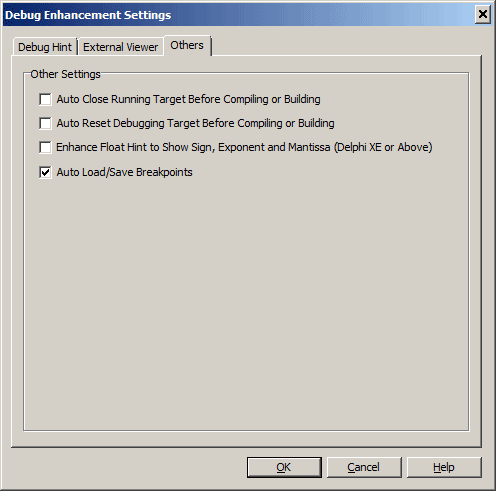
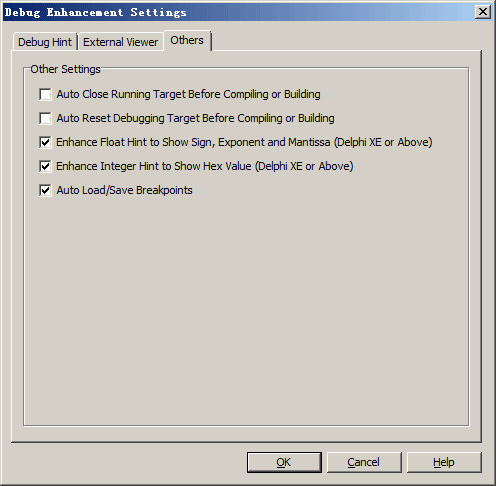
* [Help] Update Help and Snapshot for Debug Enhance.

Changed region(s): [[0.0, 0.0, 0.998, 0.4012], [0.0302, 0.8642, 0.9677, 0.9877]]

diff --git a/Help/CnWizards_ENU/other/history.htm b/Help/CnWizards_ENU/other/history.htm
@@ -26,10 +26,9 @@
 <p class="indentnarrow">! Problem(s) Found but NOT Fixed.</p>
 <p class="indentnarrow">^ Funciton(s) in Planning</p>
 <p class="indentnarrow">&nbsp;</p>
-<p class="title">2026.03.xx V1.7.2</p>
+<p class="title">2026.04.xx V1.7.2</p>
 <p class="indentnarrow">+ Supports RAD Studio 13.1.</p>
-<p class="indentnarrow">+ Add RAD Studio Menu Localization in Language Menu.</p>
-<p class="indentnarrow">+ Add Delphi 5 6 7 / C++Builder 5 6 / Delphi 2005 2006 2007 IDE Localization in Language Menu.</p>
+<p class="indentnarrow">+ Add Delphi / C++Builder / RAD Studio IDE Chinese Localization in Language Menu.</p>
 <p class="indentnarrow">+ AI Coder Supports XiaoMi MiMo.</p>
 <p class="indentnarrow">+ Add Align Comment Block Menu in Comment Tidy.</p>
 <p class="indentnarrow">+ Add Save Lock State Menu in Form Design Wizard.</p>

diff --git a/Help/CnWizards_ENU/ideenhance/debugenh.htm b/Help/CnWizards_ENU/ideenhance/debugenh.htm
@@ -86,6 +86,9 @@
     <p class="text"><b>Enhance Float Hint to Show Sign, Exponent and Mantissa</b>: This option allows the debugging period to add Sign, Exponent and Mantissa Display into a Float Value Debug Hint. This option is only valid for Delphi XE versions or above. This option is turned off by default.</p>
   </li>
   <li>
+    <p class="text"><b>Enhance Integer Hint to Show Hex Value</b>: This option allows the debugging period to add Hex Value Display into an Integer Value Debug Hint. This option is only valid for Delphi XE versions or above. This option is turned off by default.</p>
+  </li>
+  <li>
     <p class="text"><b>Auto Load/Save Breakpoints</b>: This option allows breakpoints to be automatically saved and restored when source files are closed and opened.</p>
   </li>
 </ul>
